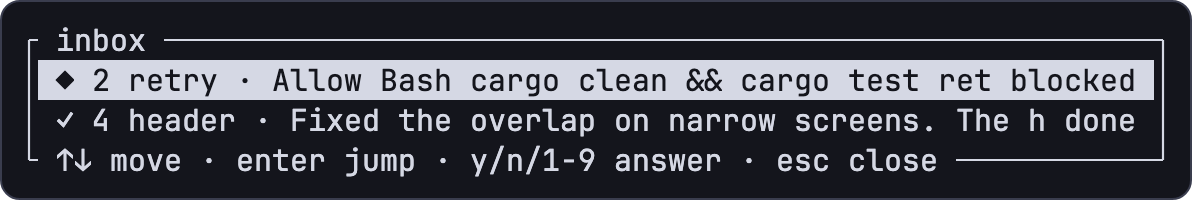
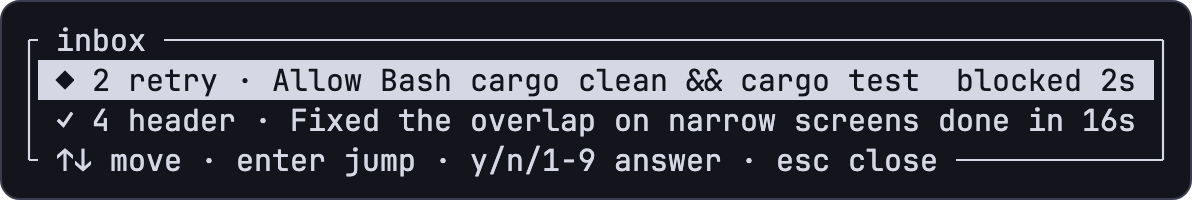
docs(readme): agent info overlay, go-to filters and a still of the overlay
The "ask why" passage leads with `prefix i` and a captured agent-info
box, the CLI example shows the history block, the inbox paragraph names
`prefix g` then `b`, the command table mentions recent states, and the
comparison names v0.1.0 as the latest release. The screenshot script
captures the agent info on the retry tab; the other stills are
regenerated so they show the ages added since the last capture.

Changed region(s): [[0.776, 0.33, 0.9622, 0.45], [0.776, 0.54, 0.9622, 0.66]]

diff --git a/scripts/readme_shots.py b/scripts/readme_shots.py
@@ -777,6 +777,13 @@ def stills(host, out):
     popup("inbox", "inbox")
     host.keys(b"\x1b")
     host.pump(0.5)
+    host.keys(b"\x022")                # the retry tab: why it is blocked
+    host.pump(0.6)
+    host.keys(b"\x02i")
+    host.pump(1.5)
+    popup("agent-info", "agent info")
+    host.keys(b"\x1b")
+    host.pump(0.5)
     host.keys(b"\x024")                # the header tab: its real diff
     host.pump(0.6)
     host.keys(b"\x02v")

diff --git a/docs/plan.md b/docs/plan.md
@@ -381,7 +381,7 @@ Explicitly out of v1: Windows, remote SSH machine management, plugins, image pro
   - [x] Time-in-state (2026-11-06; the first of the §1 attention features still unbuilt): every agent row in the sidebar ends with how long the agent has been in its state (`42s`, `3m`, `2h`, `1d`, dim at the right; the activity makes room for it and gives way when the row is too narrow), and the inbox's right-hand column is `blocked 3m`, sorted within each state by longest wait first (unknown ages last, then tab order). The server's `StateEngine` keeps `(state, UnixMillis)` per pane: `record(pane, state, now)` returns when the state began, kept across activity-only changes and from Done to Finished (the agent finished at that moment; looking at it doesn't restart the clock), `None` for a shell. `SessionState` stamps changes through the new `monarch_core::Clock` seam (`SystemClock`; tests use the server's `FakeClock`), and `ServerMsg::Agent` and `PaneSummary` carry `since: Option<UnixMillis>` (`Hello::WIRE` 5 → 6). Clients age it against their own wall clock (server and client share a machine), `age_label` formats it, and `AttachApp::tick_ages` redraws once a second while any agent has an age and the sidebar or inbox shows it. `AttentionItem` replaces the inbox's four-tuple. Not done: ages in `monarch agent read`/`explain` and the API replies.
   - [x] Turn timing (user's report, 2026-11-06: "when the response finishes, the count still climbs"): the age now counts the turn so far while Working (from the first Working after a rest, kept through a Blocked prompt), the wait while Blocked or Error, and freezes at how long the turn took once it is Done, Finished or Idle (an Idle with no turn behind it shows nothing). `AgentTiming {since, turn_began, took}` replaces the bare stamp on `ServerMsg::Agent` and `PaneSummary` (`Hello::WIRE` 6 → 7); `StateEngine::record` keeps it per pane (`advance`: Working starts a turn unless resuming after Blocked, Blocked keeps it, anything else ends and measures it). The client's `AttachState::age` picks running or frozen by state, `any_running` gates the once-a-second redraw, and the inbox sorts by when the state began (`done in 45s` for a finished turn). Also fixed: a Stop reported on the focused pane with a client attached is Finished at once (`SessionState::watched`, shared with the screen path), where before it stayed Done, bright and in the inbox, until focus left and returned.
   - [x] The stopwatch pauses for a prompt (user's report, 2026-11-06: "when I ask for a prompt, the count didn't pause while waiting and continued to increment"): the sidebar number is now the turn's working time only. `AgentTiming {since, working_since, worked}` (`Hello::WIRE` 7 → 8): Working starts a span (a new turn from zero, or resuming the turn's `worked` after Blocked), anything else closes the span into `worked`, so Blocked, Done, Finished, Idle and Error all hold the stopwatch (`AgentTiming::worked_at(now)` on the client; `any_running` is Working with an open span). The inbox keeps the wait: `AttentionItem::waited` (from `since`) gives `blocked 3m`, while `done in 45s` is the turn's working time.
-  - [x] Agent info overlay and go-to state filters (2026-11-06; two §1 UX items from the keys table): `prefix i` (`Action::AgentInfo`, `agent-info`, client-local, all presets) opens `AgentInfo` on the focused pane and sends the new attach message `ClientMsg::Explain(pane)`; the server runs `ServerContext::explain` for that pane on a blocking thread (`attach_connection/explain.rs`, sharing the worktree handler's `answer`) and the asking client alone gets `ServerMsg::Explained {pane, explained: Option<Box<PaneExplanation>>}` (`Hello::WIRE` 8 → 9). The page (`AgentInfoView`, drawn by the new `PageView` the help page now also uses: a titled box of `HelpLine`s with a footer and a scroll) shows the state with how long it has been there and the signal (`◆ Blocked for 3m · from its hooks`), the activity, the program, what the screen shows to the manifest and the rule that fired, then "Recent states, oldest first" (`3m ago  ● Working · from its hooks · Bash ls`) and every rule, `▶` the winner and `✓` other matches with the end of what they read. It follows the agent: a `ServerMsg::Agent` for that pane (`Applied.agents`) asks again, `r` asks by hand, the ages redraw once a second while it is open; `↑↓`/`j`/`k`, pages, `g`/`G` scroll; Esc, `q`, `i` close. For the history the server's `StateEngine` keeps the last 8 transitions per pane (`state_engine/transitions.rs`: `log` on every status change, a new entry when the state or source differs, an activity-only change updating the latest; cleared when the pane is a shell again or exits) and `PaneExplanation` gained `transitions: Vec<AgentTransition {state, source, activity, at}>`, so `monarch agent explain p3` prints a `history` block too. The go-to picker is now `GoToPicker` (`Popups.goto`, pure, wrapping `Picker` over `GoToPane` rows): with nothing typed, `b`/`w`/`i`/`d` narrow it to blocked, working, idle or done (Done or Finished) agents, the title says `go to pane · blocked`, the same key again or Backspace widens, and typing then searches within the filter; rows show the agent's state at the right where they said nothing (`here` still wins), and an open picker refreshes as states change. Guide, README, help page (Agents group, pop-up keys) and the key popup updated (three columns still fit 80 cells). Verified end to end in a scripted session: hook reports Working then Blocked, `prefix i` shows `◆ Blocked for 1s · from its hooks`, the activity and both states; `prefix g b` lists only that pane; `monarch agent explain p1` prints the `history` block. Not done: an age and timing in the API's explain reply (the client ages the last transition itself); the filter keys only act on an empty query, so a name starting with `b`/`w`/`i`/`d` is found by typing a later letter of it.
+  - [x] Agent info overlay and go-to state filters (2026-11-06; two §1 UX items from the keys table): `prefix i` (`Action::AgentInfo`, `agent-info`, client-local, all presets) opens `AgentInfo` on the focused pane and sends the new attach message `ClientMsg::Explain(pane)`; the server runs `ServerContext::explain` for that pane on a blocking thread (`attach_connection/explain.rs`, sharing the worktree handler's `answer`) and the asking client alone gets `ServerMsg::Explained {pane, explained: Option<Box<PaneExplanation>>}` (`Hello::WIRE` 8 → 9). The page (`AgentInfoView`, drawn by the new `PageView` the help page now also uses: a titled box of `HelpLine`s with a footer and a scroll) shows the state with how long it has been there and the signal (`◆ Blocked for 3m · from its hooks`), the activity, the program, what the screen shows to the manifest and the rule that fired, then "Recent states, oldest first" (`3m ago  ● Working · from its hooks · Bash ls`) and every rule, `▶` the winner and `✓` other matches with the end of what they read. It follows the agent: a `ServerMsg::Agent` for that pane (`Applied.agents`) asks again, `r` asks by hand, the ages redraw once a second while it is open; `↑↓`/`j`/`k`, pages, `g`/`G` scroll; Esc, `q`, `i` close. For the history the server's `StateEngine` keeps the last 8 transitions per pane (`state_engine/transitions.rs`: `log` on every status change, a new entry when the state or source differs, an activity-only change updating the latest; cleared when the pane is a shell again or exits) and `PaneExplanation` gained `transitions: Vec<AgentTransition {state, source, activity, at}>`, so `monarch agent explain p3` prints a `history` block too. The go-to picker is now `GoToPicker` (`Popups.goto`, pure, wrapping `Picker` over `GoToPane` rows): with nothing typed, `b`/`w`/`i`/`d` narrow it to blocked, working, idle or done (Done or Finished) agents, the title says `go to pane · blocked`, the same key again or Backspace widens, and typing then searches within the filter; rows show the agent's state at the right where they said nothing (`here` still wins), and an open picker refreshes as states change. Guide, README, help page (Agents group, pop-up keys) and the key popup updated (three columns still fit 80 cells). Verified end to end in a scripted session: hook reports Working then Blocked, `prefix i` shows `◆ Blocked for 1s · from its hooks`, the activity and both states; `prefix g b` lists only that pane; `monarch agent explain p1` prints the `history` block. README (2026-11-06, PR after #109): the "ask why" passage now leads with `prefix i` and a real still, `docs/assets/agent-info.png` (`scripts/readme_shots.py` opens it on the retry tab and crops the box by its title, as the inbox still), the CLI example shows the `history` block, the inbox paragraph mentions `prefix g` then `b`, and the other stills were regenerated so they show the ages; `social-preview.png` changed too and must be re-uploaded by hand. Not done: an age and timing in the API's explain reply (the client ages the last transition itself); the filter keys only act on an empty query, so a name starting with `b`/`w`/`i`/`d` is found by typing a later letter of it.
   - [x] Key popup alignment (user's report, 2026-11-06: "when I do prefix and the commands pop up, the alignment is unclear"): the key column was padded to the widest entry (`hjkl ←↓↑→`), so a one-character key sat ten cells from its own label and five from the next column's, which the eye paired it with. `WhichKey` now right-aligns each key against its label (two cells apart, the column gap three) and draws keys in the theme's accent (`Chrome::key`; bold alone under `NO_COLOR`) through a new `chrome` field. A wider gap was tried and dropped: at 80 cells it cost the third column and hid 11 keys.
 - Next up: the open M1 spikes and known gaps below. v0.1.0 was released on 2026-11-06 (tag, GitHub Release with binaries and installer, Homebrew tap formula); crates.io publishing stays off (`git_only`).
 - Known gaps: switching sessions (`prefix S`) leaves and re-enters the alternate screen, a brief flash of the shell; the client starts the server with its own environment (`monarch server` inherits the attaching shell's cwd and env; fine for one user, revisit for `monarch new`); the startup probe is sent once per attach, not re-sent on FocusGained; the host title is set to the pane's (possibly empty) title on attach and restored on exit; memory is mostly scrollback (≈70 MB per flooded 200-column pane at 10k lines; use `agent_scrollback` for agent panes or compact history later); a pane flooding output costs about one core of parsing even when hidden (inherent to G13; real agents are far below that rate); the writer channel is unbounded (a huge paste into a program that never reads stdin grows memory); mouse reports pass through unre-encoded in the prototype (correct only for one full-screen pane; re-encoding is spike 5); the server must keep the last client's `HostInfo` so panes started before an attach still answer OSC 10/11 with host colours; Claude Code OSC 7501 probe behaviour (spike 2); crates publish as `monarch-mux-*` (`monarch-core` was taken on crates.io; `[lib] name` keeps `monarch_core` imports) and release-plz publishes them in dependency order; releases need repo secrets `RELEASE_PLZ_TOKEN` (PAT), `HOMEBREW_TAP_TOKEN` (PAT with write to `cooksterj/homebrew-monarch`) and `CARGO_REGISTRY_TOKEN`; installer artifact is `monarch-mux-installer.sh`; ratatui has one underline modifier, so undercurl/dotted/dashed/double underlines currently render as plain underline (fix needs a custom backend writer — a G-contract gap); macOS blocks a process exiting until its tty output is drained, so PTY test harnesses must keep reading

diff --git a/README.md b/README.md
@@ -60,7 +60,7 @@ Already inside Monarch? `prefix N` does the same from a form. The prefix is `Ctr
 
 You're working in `a11y`. In another tab, `retry` wants to run a command, and an amber diamond appears on its row in the sidebar.
 
-`prefix a` opens the inbox: every agent waiting on you, longest wait first, with the question it asked or the last thing it said and how long it has been waiting. Type `y` or `n` and the answer goes to that agent in the form it expects, while you stay where you are. `Enter` jumps to its pane instead, and `prefix Tab` goes straight to the next blocked agent.
+`prefix a` opens the inbox: every agent waiting on you, longest wait first, with the question it asked or the last thing it said and how long it has been waiting. Type `y` or `n` and the answer goes to that agent in the form it expects, while you stay where you are. `Enter` jumps to its pane instead, `prefix Tab` goes straight to the next blocked agent, and `prefix g` then `b` lists only the agents waiting on you, as a jump list.
 
 <img src="docs/assets/inbox.png" width="640" alt="The inbox. It lists retry, blocked on 'Allow Bash cargo clean and cargo test', and header, done with its last message. A hint line reads: move, enter jump, y/n/1-9 answer, esc close.">
 
@@ -68,13 +68,20 @@ Monarch knew because the agent told it. `monarch setup` adds hooks to Claude Cod
 
 <img src="docs/assets/signals.svg" width="560" alt="A diagram. Monarch learns an agent's state from three sources, most trusted first: the agent's own hooks, terminal notifications, and detection rules for 22 agents reading the screen. They resolve to one state per pane: working, blocked, idle, done, error or exited.">
 
-You can always ask why:
+You can always ask why. `prefix i` shows it for the pane you're in: the state and which signal set it, what the screen looks like to the detection rules, and the last few states the agent went through. It follows the agent while open.
+
+<img src="docs/assets/agent-info.png" width="640" alt="The agent info for retry. State: Blocked for 5s, from its hooks. Activity: Allow Bash cargo clean and cargo test retry. Program: claude. Screen: Blocked by rule bash_permission_prompt, claude 2026.10.11. Under Recent states, oldest first: Idle from its screen 22 seconds ago, Working from its hooks 21 seconds ago with the prompt fix the retry backoff, then Blocked from its hooks 5 seconds ago. Under Rules, thirteen rules of the Claude manifest with their state, priority and region; bash_permission_prompt is marked as the one that fired, with the text it read.">
+
+The same answer from a shell:
 
 ```text
 $ monarch agent explain p2
 pane p2 (tab 2) · claude
 status    ◆ Blocked, from its hooks
 activity  Allow Bash cargo clean && cargo test retry?
+history    22s ago  ○ Idle      from its screen
+           21s ago  ● Working   from its hooks  fix the retry backoff
+            5s ago  ◆ Blocked   from its hooks  Allow Bash cargo clean && cargo test retry?
 manifest  claude 2026.10.11.1
 screen    ◆ Blocked (rule bash_permission_prompt)
 ```
@@ -162,7 +169,7 @@ Monarch is about two weeks old and the smallest project here. Several of these t
 | **Plugins** | — | ✓ | ✓ | custom sidebars | ✓ | via TPM | — |
 | **Platforms** | macOS, Linux | macOS, Linux, Windows | macOS, Linux, Windows, BSD | macOS | macOS, Linux, Windows | macOS, Linux, BSD | macOS, Linux |
 | **License** | MIT or Apache-2.0 | Apache-2.0 | MIT | GPL-3.0+, some parts BUSL-1.1 | MIT | ISC | AGPL-3.0 |
-| **Latest release** | none yet | v0.9.5 | v0.12.1 | v0.65.2.2 | v0.45.1 | 3.8 | v1.0.20 |
+| **Latest release** | v0.1.0 | v0.9.5 | v0.12.1 | v0.65.2.2 | v0.45.1 | 3.8 | v1.0.20 |
 
 <sub>Checked against each project's docs on 2026-11-05. The cmux column describes its macOS app; cmux also has a separate terminal multiplexer, cmux TUI. These tools move quickly: Zellij's unreleased changes already add an inbox and agent status.</sub>
 
@@ -283,7 +290,7 @@ None of these change anything:
 |---|---|
 | `monarch ls` | running sessions, with their panes, tabs and whether one is attached |
 | `monarch agent explain` | every pane, its program and its agent's state, with where the state came from |
-| `monarch agent explain p3` | one pane in detail: every detection rule and the text it matched |
+| `monarch agent explain p3` | one pane in detail: the states it went through lately, every detection rule and the text it matched |
 | `monarch agent wait p3 --timeout 600` | waits until pane `p3`'s agent needs you, then prints its status |
 | `monarch agent read p3` | the last thing pane `p3`'s agent said, in full (its screen, for an agent without hooks) |
 | `monarch doctor` | the whole setup (binary, config, hooks, skill, git, terminal, sessions), with fixes |
